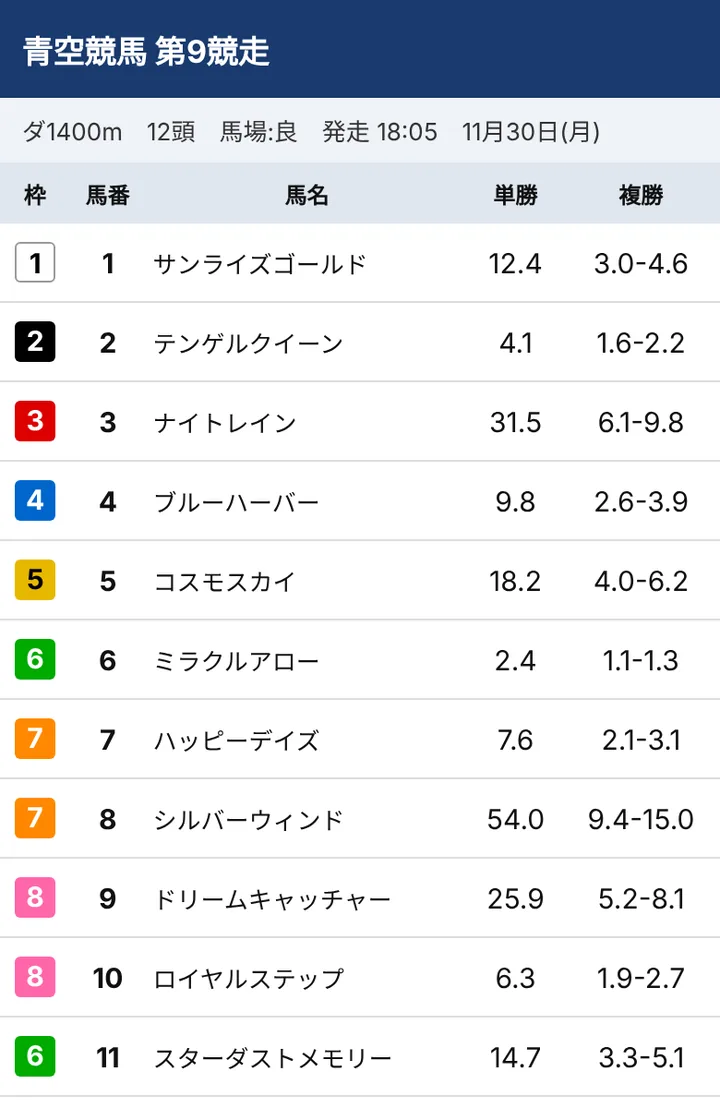
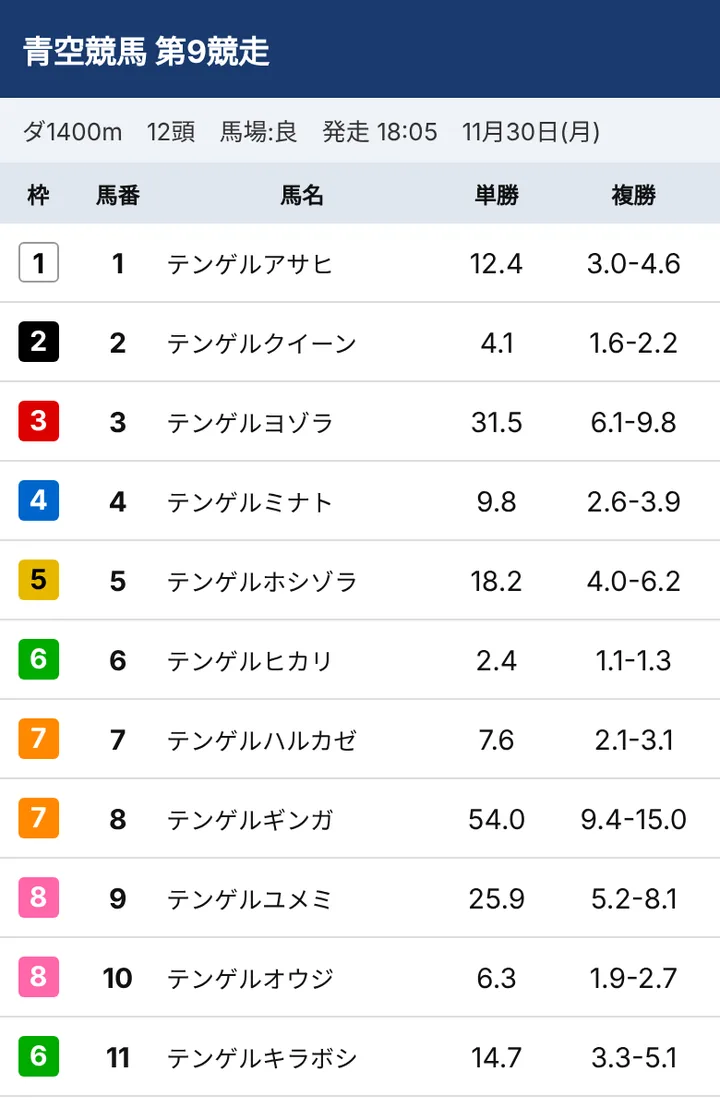
第4.243版（作業中）：使い方の 見本の 絵の 馬の 名前を ぜんぶ 架空の「テンゲル○○」に（まさちゃん 2026/11/29 02:05「この馬の名前系だけ完全に架空の馬にして！」・02:06「実際にいる馬と名前が被って無ければいいよ！」）：単勝オッズの 画面・出馬表・推し馬と 血統（help/help_art.py の NAMES）
Claude-Session: https://claude.ai/code/session_01D2f7uzCM9K3wiyHkskMpMi

diff --git a/source/help/help_art.py b/source/help/help_art.py
@@ -2,7 +2,9 @@
 #   まさちゃん 2026/11/29 01:11「判定の画像読み込みの横にもビックリマークつけて、タップすると、どんな画像を読み込めばいいか(画像をつけて)、買い目予約の仕方(画像をつけて)、
 #     結果入力、結果記録の説明が出てくるようにして！ あと、作戦会議の画像読み込みの横にもビックリマークをつけて、タップするとどんな画像を読み込めばいいか(画像つけて)
 #     どんなことができるか画像つきで説明が出てくるようにして！」
-#   ・読み込む 画像の 見本＝架空の オッズ画面・出馬表（testdata/ocr/make_mock.py の 画面。開催場は 架空の「青空」「星空」〈出馬表の「5回青空7日」は 漢字で 読む〉・馬の 名前・騎手は 架空）
+#   ・読み込む 画像の 見本＝架空の オッズ画面・出馬表（testdata/ocr/make_mock.py の 画面。開催場は 架空の「青空」「星空」〈出馬表の「5回青空7日」は 漢字で 読む〉・騎手は 架空）
+#   ・馬の 名前は ぜんぶ「テンゲル○○」（まさちゃん 2026/11/29 02:05「この馬の名前系だけ完全に架空の馬にして！」・02:06「実際にいる馬と名前が被って無ければいいよ！」：
+#     make_mock.py の 名前〈英語の ことばの 名前〉は 本物の 馬と かぶる かも しれない → アプリの 名前「テンゲル」を 頭に つけた 名前に おきかえて 撮る。テストの 見本〈testdata/ocr〉は そのまま）
 #   ・アプリの 画面＝いまの アプリ（App Store版）を 架空の レースで 動かして 撮る（説明書の 写真〈manual/tools/shots_app.py〉と 同じ やり方：画像の 読み取りは
 #     見本の 画面の「読めた 文字」〈testdata/ocr/*.json〉を 返す にせものの 端末・開催場の 名前は 写さない）
 #   出す もの：help/img/hp_*.webp（リポジトリに 入れる：まさちゃんの 絵は 入って いない）→ build_pwa.py が App Store版の manual/ に 入れる（アプリの Resources）
@@ -49,14 +51,19 @@ def subst(s, pairs, days=True):
     return s
 
 
+# 馬の 名前（make_mock.py の 名前 → 架空の「テンゲル○○」：9字 まで）
+NAMES = [('サンライズゴールド', 'テンゲルアサヒ'), ('ナイトレイン', 'テンゲルヨゾラ'), ('ブルーハーバー', 'テンゲルミナト'), ('コスモスカイ', 'テンゲルホシゾラ'), ('ミラクルアロー', 'テンゲルヒカリ'),
+         ('ハッピーデイズ', 'テンゲルハルカゼ'), ('シルバーウィンド', 'テンゲルギンガ'), ('ドリームキャッチャー', 'テンゲルユメミ'), ('ロイヤルステップ', 'テンゲルオウジ'),
+         ('スターダストメモリー', 'テンゲルキラボシ'), ('ラストサムライ', 'テンゲルサムライ'), ('ゴールデンメテオ', 'テンゲルリュウセイ')]
+OLD = [a for a, _ in NAMES]
 SUB = [('大井競馬 第9競走', '青空競馬 第9競走'), ('大井競馬場 9R', '青空競馬場 9R'), ("venue='京都'", "venue='青空'"), ('["東京", "京都"]', '["星空", "青空"]'), ('["東京"]', '["星空"]'), ('(栗東)', '(青空)')]
-mm = subst(mm, SUB)
+mm = subst(mm, SUB + NAMES)
 NS = {'json': json, 'os': os, 'sys': sys}
 exec(mm, NS)
 CARD = NS['page_g']('青空', 11, 'テンゲルステークス', '3歳以上 オープン (混合)(特指) 別定', 'コース 1600m 芝・右 発走15:35', '本賞金(万円):2300、920、580、350、230')
 MOCK = {'hp_odds': (NS['page_a'](), 600), 'hp_tri': (NS['page_c'](), 600), 'hp_card': (CARD, 700)}
 for k, (body, _) in MOCK.items():
-    assert not any(w in body for w in ('大井', '京都', '東京', '栗東', 'JRA', '11月28日')), k
+    assert not any(w in body for w in ('大井', '京都', '東京', '栗東', 'JRA', '11月28日') + tuple(OLD)), k
 # 画像の 読み取りの にせもの：見本の 画面の「読めた 文字」（testdata/ocr）を 同じ 言いかえで
 OCR = os.path.join(SRC, 'testdata', 'ocr')
 
@@ -64,13 +71,13 @@ OCR = os.path.join(SRC, 'testdata', 'ocr')
 def lines(name, subs):
     L = json.load(open(os.path.join(OCR, name + '.json'), encoding='utf8'))['lines']
     s = subst(json.dumps(L, ensure_ascii=False), subs)
-    assert not any(w in s for w in ('大井', '京都', '東京', '栗東')), name
+    assert not any(w in s for w in ('大井', '京都', '東京', '栗東') + tuple(OLD)), name
     return json.loads(s)
 
 
-OCR_A = lines('a_tanfuku_waku', [('大井競馬', '青空競馬')])
+OCR_A = lines('a_tanfuku_waku', [('大井競馬', '青空競馬')] + NAMES[:11])
 OCR_C = lines('c_sanrentan', [('大井競馬場', '青空競馬場')])
-OCR_G = lines('h_card', [('京都', '青空'), ('東京', '星空'), ('栗東', '青空')])
+OCR_G = lines('h_card', [('京都', '青空'), ('東京', '星空'), ('栗東', '青空'), NAMES[0]])
 
 # ---------- ② アプリ（App Store版）----------
 shutil.rmtree(TMP, ignore_errors=True); os.makedirs(TMP)
@@ -89,8 +96,8 @@ PLAN = {'v': 1, 'on': True, 'races': [
     {'id': 'p1', 'date': D1.strftime('%Y-%m-%d'), 'time': '15:35', 'name': '青空11R テンゲルステークス', 'n': 16, 'dist': 1600, 'venue': '青空', 'r': 11, 'memo': 'パドックを 見てから 決める', 'notify': [10, 5]},
     {'id': 'p2', 'date': D1.strftime('%Y-%m-%d'), 'time': '16:15', 'name': '青空12R 3歳以上2勝クラス', 'n': 14, 'dist': 1200, 'venue': '青空', 'r': 12, 'memo': '', 'notify': [15]}]}
 OSHI = {'v': 1, 'list': [
-    {'id': 'o1', 'name': 'テンゲルクイーン', 'ped': ['サンライズゴールド', 'ナイトレイン', 'ブルーハーバー', 'コスモスカイ', 'ミラクルアロー', 'ハッピーデイズ'] + [''] * 8, 'memo': '左回りが 得意', 'at': '2026-11-01T00:00:00Z'},
-    {'id': 'o2', 'name': 'ロイヤルステップ', 'ped': ['シルバーウィンド', 'ドリームキャッチャー'] + [''] * 12, 'memo': '', 'at': '2026-11-02T00:00:00Z'}]}
+    {'id': 'o1', 'name': 'テンゲルクイーン', 'ped': ['テンゲルアサヒ', 'テンゲルヨゾラ', 'テンゲルミナト', 'テンゲルホシゾラ', 'テンゲルヒカリ', 'テンゲルハルカゼ'] + [''] * 8, 'memo': '左回りが 得意', 'at': '2026-11-01T00:00:00Z'},
+    {'id': 'o2', 'name': 'テンゲルオウジ', 'ped': ['テンゲルギンガ', 'テンゲルユメミ'] + [''] * 12, 'memo': '', 'at': '2026-11-02T00:00:00Z'}]}
 errs = []
 
 
